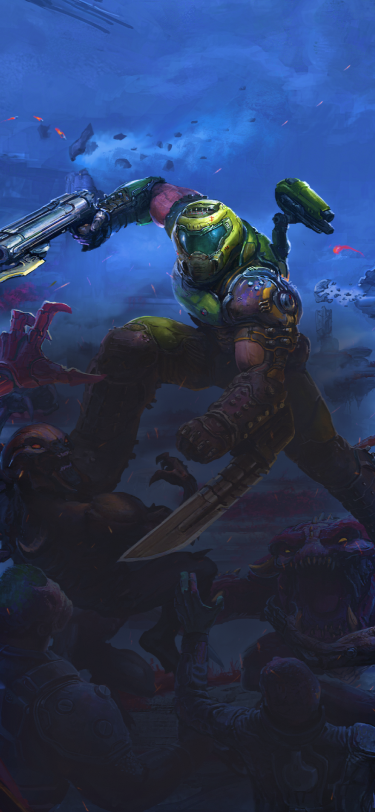
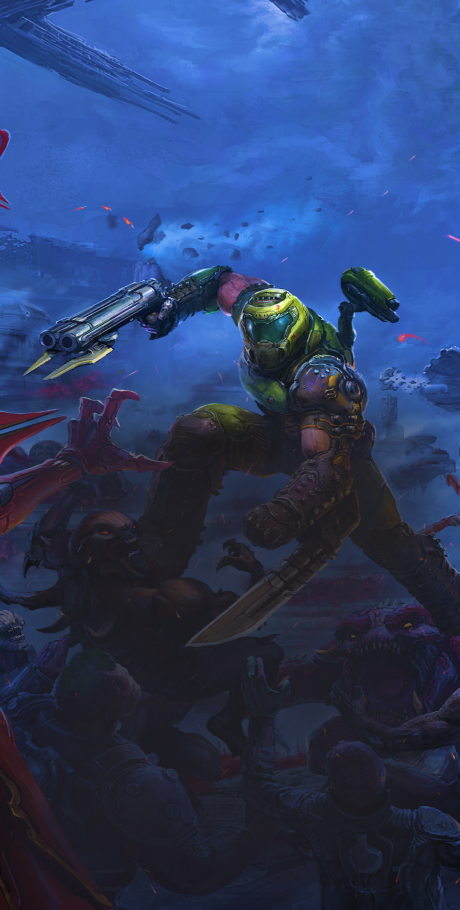
update mobile login screen

diff --git a/public/css/custom.css b/public/css/custom.css
@@ -9,7 +9,7 @@
 body{
     background-image: url("../images/bg_mobile.png");
     background-repeat: no-repeat;
-    background-size: contain;
+    background-size: cover;
 }
 
 .content-wrapper, footer{

diff --git a/resources/views/home.blade.php b/resources/views/home.blade.php
@@ -5,11 +5,11 @@
 
     <!-- Main content -->
     <div class="content pt-3 mobilehome">
-                <a href="/show/767" id="l4d" class="bgHomeImg image-container"><img id="l4d" src="{{ asset('images/l4d.png') }}"><div class="mask d-flex justify-content-end align-items-end flex-column action h4 pr-3 pb-3">Title 1 <br><small class="text-white">Some text</small></div></a>
-                <a href="/show/54" id="ARK"  class="bgHomeImg image-container"><img id="ARK" src="{{ asset('images/ARK.png') }}"><div class="mask d-flex justify-content-end align-items-end flex-column action h4 pr-3 pb-3">Title 2 <br><small class="text-white">Some text</small></div></a>
-                <a href="/show/235" id="re" class="bgHomeImg image-container"><img id="re" src="{{ asset('images/REM.png') }}"><div class="mask d-flex justify-content-end align-items-end flex-column action h4 pr-3 pb-3">Title 3 <br><small class="text-white">Some text</small></div></a>
-                <a href="/show/465" id="nier" class="bgHomeImg image-container"><img id="nier" src="{{ asset('images/nier.png') }}"><div class="mask d-flex justify-content-end align-items-end flex-column action h4 pr-3 pb-3">Title 4 <br><small class="text-white">Some text</small></div></a>
-                <a href="/show/2412" id="b4b" class="bgHomeImg image-container"><img id="b4b" src="{{ asset('images/b4b.jpg') }}"><div class="mask d-flex justify-content-end align-items-end flex-column action h4 pr-3 pb-3">Title 5 <br><small class="text-white">Some text</small></div></a>
+                <a href="/show/767" id="l4d" class="bgHomeImg image-container"><img id="l4d" src="{{ asset('images/l4d.png') }}"><div class="mask d-flex justify-content-end align-items-end flex-column action h4 pr-3 pb-3">Left 4 Dead <br><small class="text-white">Explore</small></div></a>
+                <a href="/show/54" id="ARK"  class="bgHomeImg image-container"><img id="ARK" src="{{ asset('images/ARK.png') }}"><div class="mask d-flex justify-content-end align-items-end flex-column action h4 pr-3 pb-3">Ark <br><small class="text-white">Explore</small></div></a>
+                <a href="/show/235" id="re" class="bgHomeImg image-container"><img id="re" src="{{ asset('images/REM.png') }}"><div class="mask d-flex justify-content-end align-items-end flex-column action h4 pr-3 pb-3">Resident evil 2 <br><small class="text-white">Explore</small></div></a>
+                <a href="/show/465" id="nier" class="bgHomeImg image-container"><img id="nier" src="{{ asset('images/nier.png') }}"><div class="mask d-flex justify-content-end align-items-end flex-column action h4 pr-3 pb-3">Nier automata <br><small class="text-white">Explore</small></div></a>
+                <a href="/show/2412" id="b4b" class="bgHomeImg image-container"><img id="b4b" src="{{ asset('images/b4b.jpg') }}"><div class="mask d-flex justify-content-end align-items-end flex-column action h4 pr-3 pb-3">Metal gear rising <br><small class="text-white">Explore</small></div></a>
     </div>
 
     <div class="content pt-3 desktophome">

diff --git a/config/filesystems.php b/config/filesystems.php
@@ -67,7 +67,7 @@ return [
     */
 
     'links' => [
-        base_path('/public_html/storage') => storage_path('app/public'),
+         base_path('/public_html/storage') => storage_path('app/public'),
     ],
 
 ];
